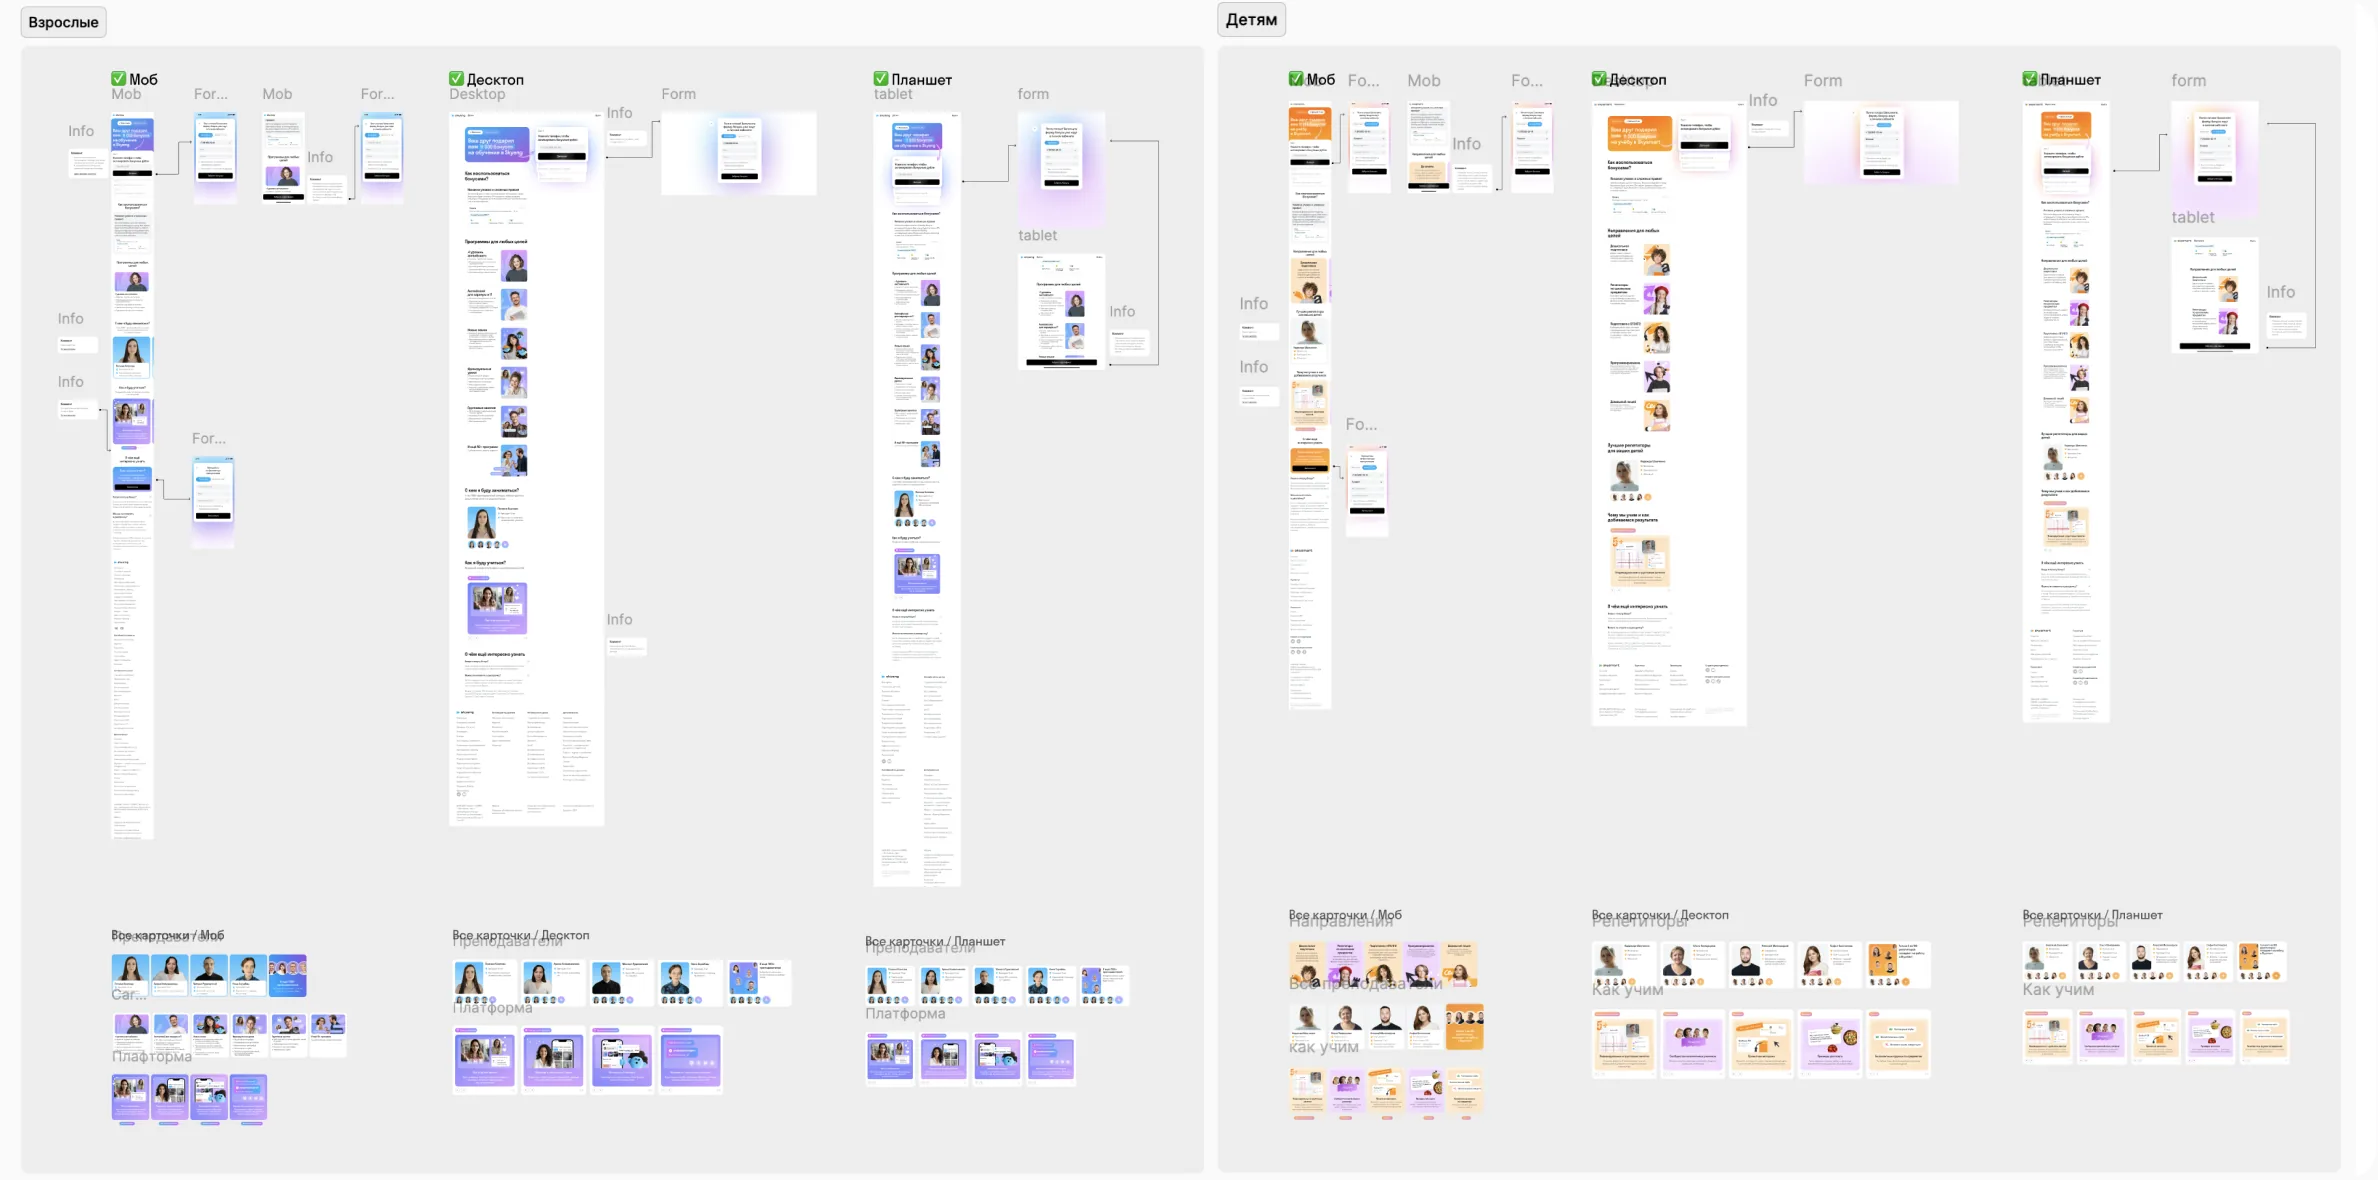
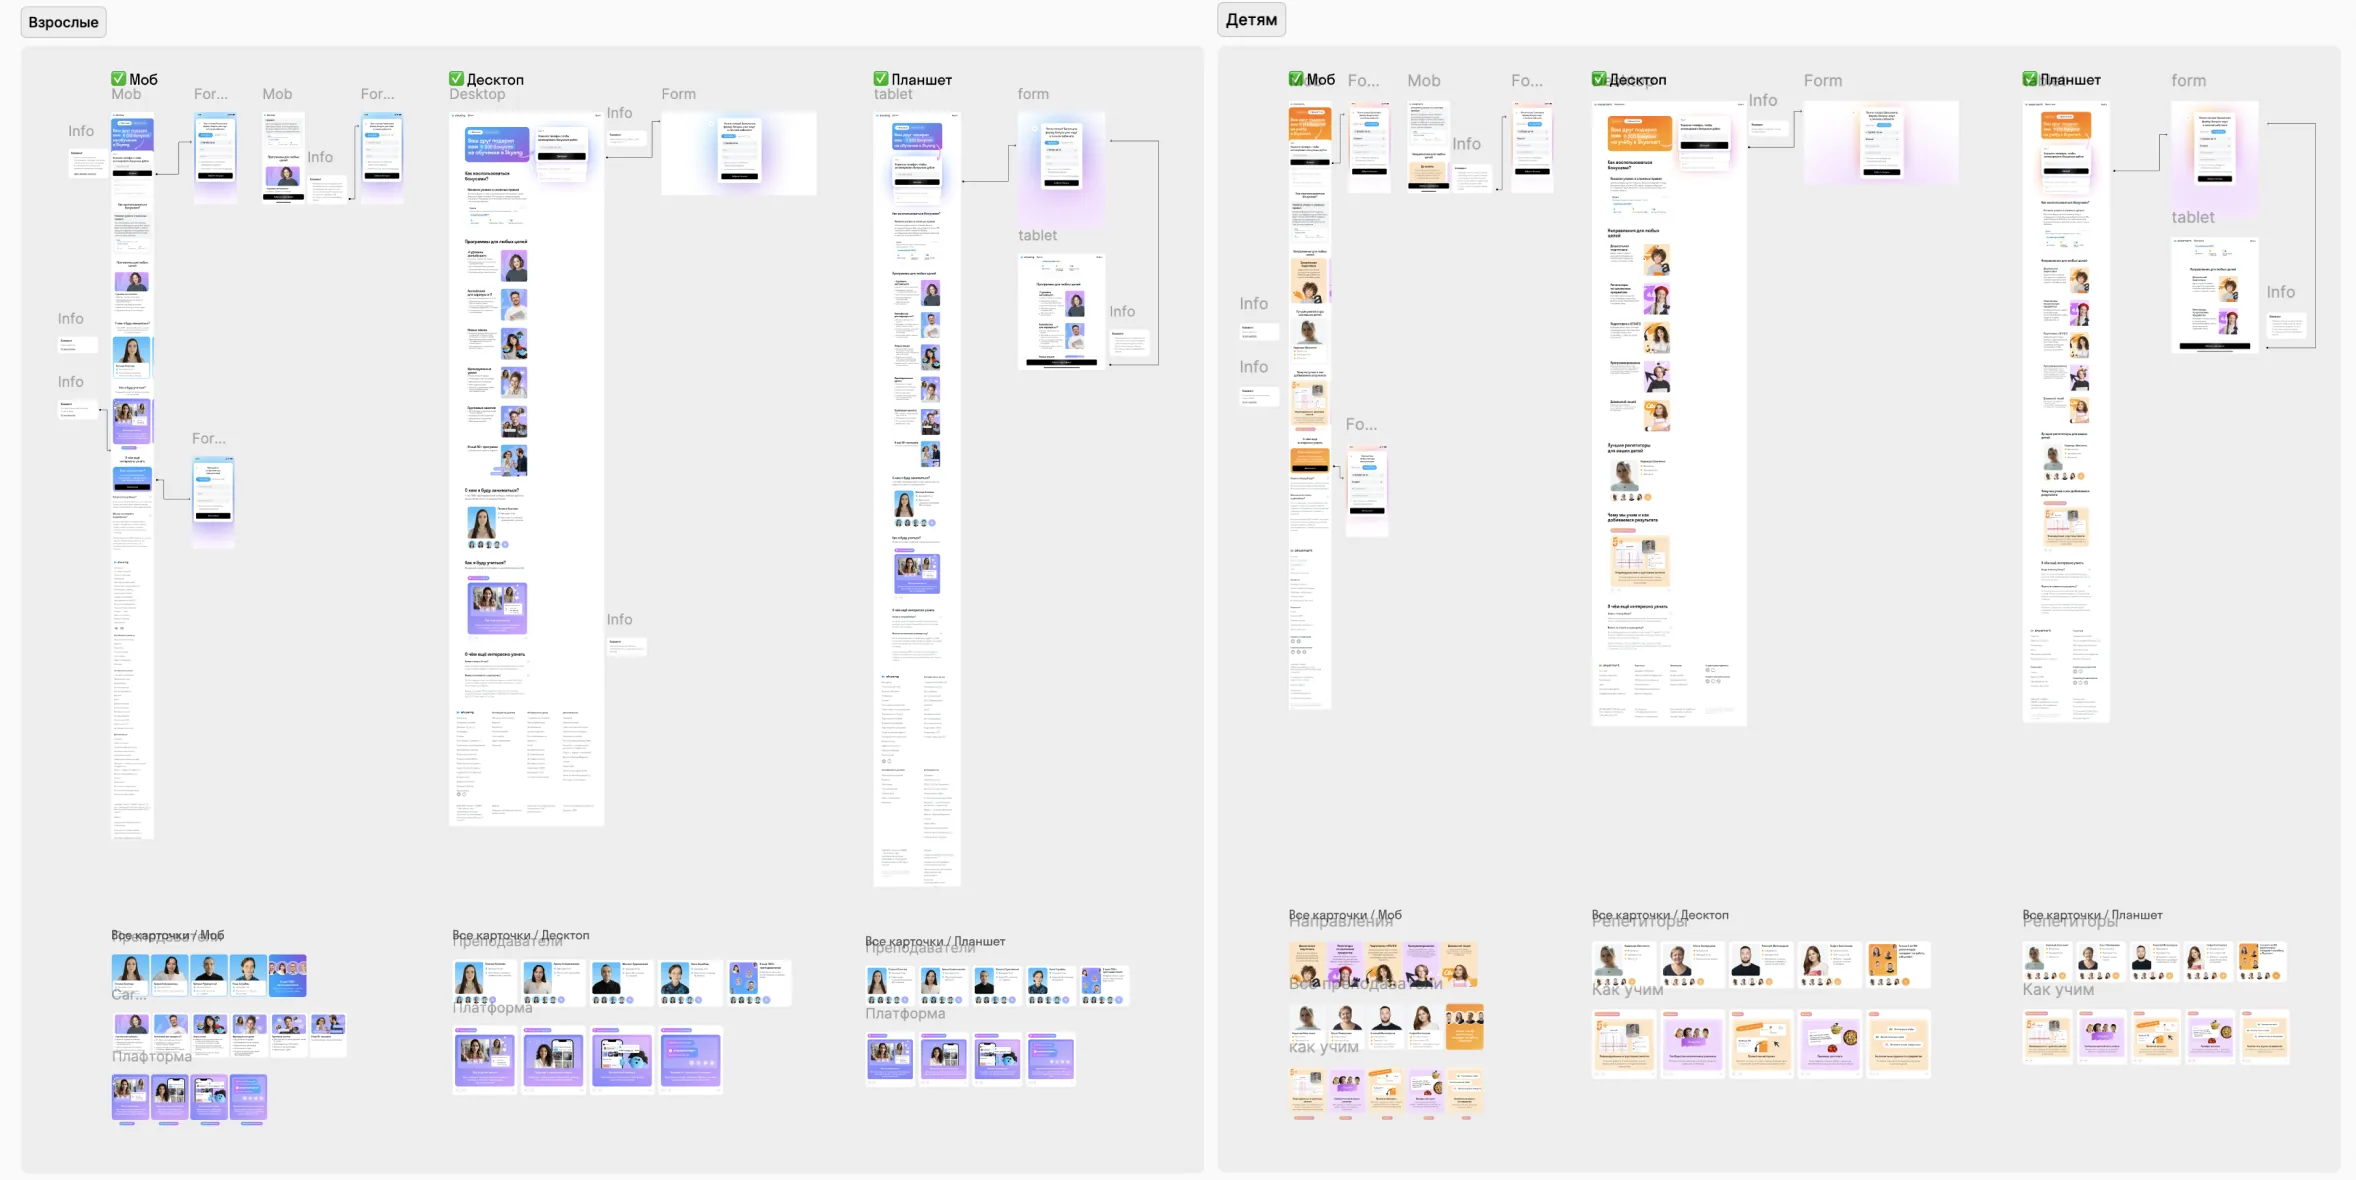
Referral: trim white edge on the last screen of the third carousel
Claude-Session: https://claude.ai/code/session_01Sfpk4z1NQLvC2cWvKxpktz

diff --git a/referral/index.html b/referral/index.html
@@ -62,7 +62,7 @@ Our challenge was to unify both programs into a single solution that would
 This created a flexible, centrally managed rewards system that could work with different promotions, discounts, and products across the school. Students earned points directly in their accounts and could redeem them for other products offered by the school.</p></div><div class="group"><h3 class="group__title">REDESIGNED THE REFERRAL EXPERIENCE</h3><p class="body">Redesigned the referral experience, introducing new UI patterns and elements. Users could track the status of their invitations, see how many points they had earned, and access the showcase to spend their points.</p></div></div></div>
     </section>
 </div>
-<div class="rail rail--band rail--scroll"><div class="rail__track" tabindex="0" role="region" aria-label="Screens (scroll sideways)"><div class="rail__items"><img src="/assets/img/referral/row3-1.webp" alt="" width="800" height="590" style="width:800px;height:590px;border-radius:16px" loading="lazy" draggable="false"><img src="/assets/img/referral/row3-2.webp" alt="" width="692" height="590" style="width:692px;height:590px;border-radius:16px" loading="lazy" draggable="false"><img src="/assets/img/referral/row3-3.webp" alt="" width="386" height="590" style="width:386px;height:590px;border-radius:20px" loading="lazy" draggable="false"><img src="/assets/img/referral/row3-4.webp" alt="" width="683" height="590" style="width:683px;height:590px;border-radius:16px" loading="lazy" draggable="false"><img src="/assets/img/referral/row3-5.webp" alt="" width="1189" height="590" style="width:1189px;height:590px;border-radius:16px" loading="lazy" draggable="false"></div></div></div>
+<div class="rail rail--band rail--scroll"><div class="rail__track" tabindex="0" role="region" aria-label="Screens (scroll sideways)"><div class="rail__items"><img src="/assets/img/referral/row3-1.webp" alt="" width="800" height="590" style="width:800px;height:590px;border-radius:16px" loading="lazy" draggable="false"><img src="/assets/img/referral/row3-2.webp" alt="" width="692" height="590" style="width:692px;height:590px;border-radius:16px" loading="lazy" draggable="false"><img src="/assets/img/referral/row3-3.webp" alt="" width="386" height="590" style="width:386px;height:590px;border-radius:20px" loading="lazy" draggable="false"><img src="/assets/img/referral/row3-4.webp" alt="" width="683" height="590" style="width:683px;height:590px;border-radius:16px" loading="lazy" draggable="false"><img src="/assets/img/referral/row3-5.webp" alt="" width="1178" height="590" style="width:1178px;height:590px;border-radius:16px" loading="lazy" draggable="false"></div></div></div>
 <div class="container"><section class="section">
       <div class="section__title" aria-hidden="true"></div>
       <div class="section__body"><div class="groups"><div class="group"><h3 class="group__title">DESIGNED NEW LANDINGS PAGES</h3><p class="body">Created dedicated landing pages for both adult and kids’ products, giving invited users relevant information, an explanation of how the referral program works, and a clear path to apply.</p></div><div class="group"><h3 class="group__title">CREATED A NEW TOOL FOR MARKETING</h3><p class="body">These landing pages and the referral page in the personal account became key tools for the marketing team to communicate promotional campaigns and special offers to users.</p></div><div class="group"><h3 class="group__title">DESIGNED EMAILS AND STORIES</h3><p class="body">I designed a series of emails and in-app stories to communicate the new referral program, encourage participation, and increase user engagement.</p></div></div></div>
